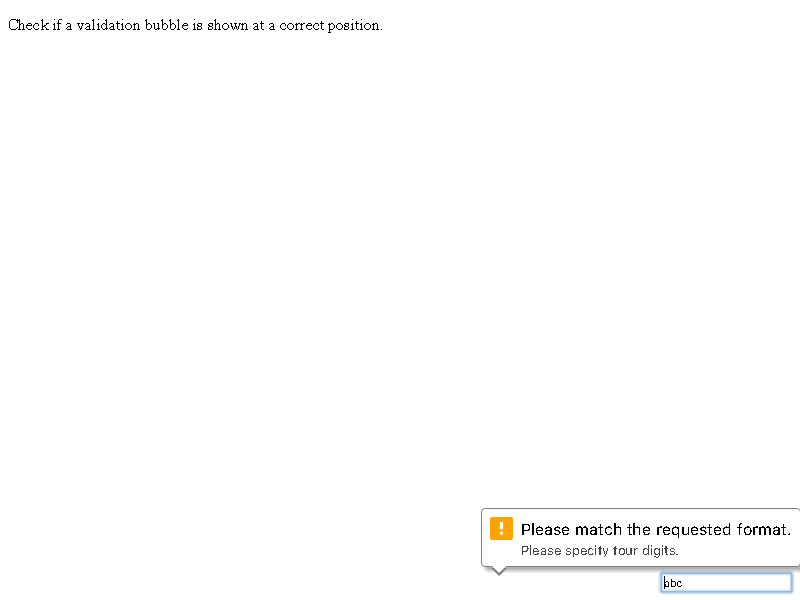
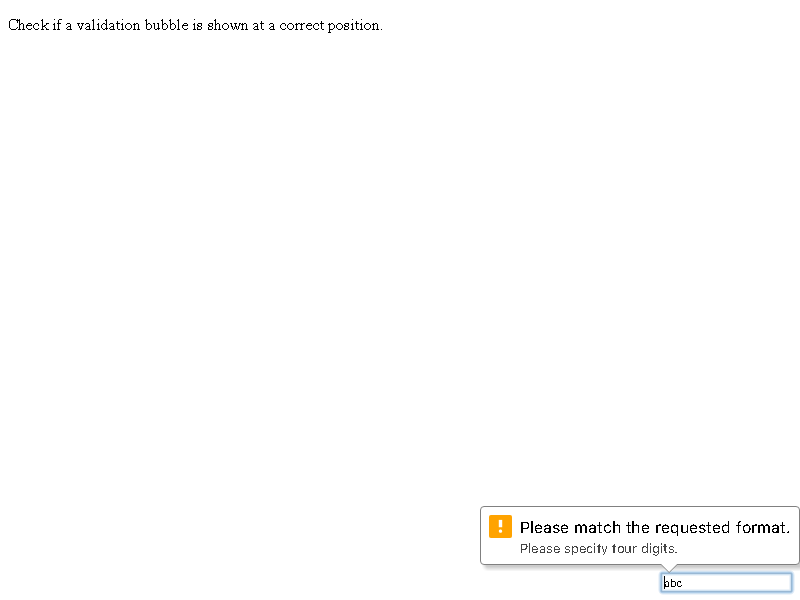
ValidationBubbleInRenderer: Adjust bubble arrow position.
This CL includes RTL support.

* If the UI locale is RTL, flip the bubble layout.
 - The default arrow position is on the right side.
 - The icon is on the right side.

* If the default position of the bubble arrow doesn't point at the anchor
  element rectangle, move the arrow position.

Implementation:
- Set <body dir=> for the UI locale.

- Found that it's difficult to adjust arrow position in RTL +
  position:relative. Switch inner arrow's position to 'absolute', and add spacer
  elements to secure height.

- Fix the icon margin in RTL.

- Drop layout tree dump from tests.

Bug: 739091
Commit-Queue: Kent Tamura <tkent@chromium.org>
Cr-Original-Commit-Position: refs/heads/master@{#485002}
Cr-Mirrored-From: https://chromium.googlesource.com/chromium/src
Cr-Mirrored-Commit: 91f7d6cc738e768e5d64f7d49b53002df0a072a4

Changed region(s): [[0.5938, 0.84, 1.0, 0.96]]

diff --git a/WebKit/Source/core/html/forms/resources/validation_bubble.css b/WebKit/Source/core/html/forms/resources/validation_bubble.css
@@ -29,13 +29,18 @@
   padding: 8px;
 }
 
+#spacer-top {
+  display: block;
+  height: var(--arrow-size);
+}
+
 #outer-arrow-top {
   border-color: transparent transparent var(--bubble-border-color) transparent;
   border-style: solid;
   border-width: 0px var(--arrow-size) var(--arrow-size) var(--arrow-size);
   display: block;
   left: 10px;
-  margin-top: -2px;
+  margin-top: 0px;
   position: absolute;
   width: 0px;
 }
@@ -46,17 +51,22 @@
   border-width: 0px var(--arrow-size) var(--arrow-size) var(--arrow-size);
   display: block;
   left: 10px;
-  margin-bottom: -2px;
-  position: relative;
+  margin-top: 1px;
+  position: absolute;
   width: 0px;
 }
 
-.bottom-arrow #outer-arrow-top, .bottom-arrow #inner-arrow-top {
+.bottom-arrow #outer-arrow-top, .bottom-arrow #inner-arrow-top, .bottom-arrow #spacer-top {
   display: none;
 }
 
-#outer-arrow-bottom, #inner-arrow-bottom {
+#outer-arrow-bottom, #inner-arrow-bottom, #spacer-bottom {
   display: none;
+}
+
+.bottom-arrow #spacer-bottom {
+  display: block;
+  height: var(--arrow-size);
 }
 
 .bottom-arrow #outer-arrow-bottom {
@@ -65,7 +75,7 @@
   border-width: var(--arrow-size) var(--arrow-size) 0px var(--arrow-size);
   display: block;
   left: 10px;
-  margin-top: 1px;
+  margin-top: 0px;
   position: absolute;
   width: 0px;
 }
@@ -76,15 +86,15 @@
   border-width: var(--arrow-size) var(--arrow-size) 0px var(--arrow-size);
   display: block;
   left: 10px;
-  margin-top: -2px;
-  position: relative;
+  margin-top: -1px;
+  position: absolute;
   width: 0px;
 }
 
 #icon {
   grid-row: 1 / 3;
   grid-column: 1;
-  margin-right: 8px;
+  -webkit-margin-end: 8px;
 }
 
 #main-message {

diff --git a/WebKit/LayoutTests/fast/forms/validation-bubble-appearance-rtl-ui.html b/WebKit/LayoutTests/fast/forms/validation-bubble-appearance-rtl-ui.html
@@ -1,0 +1,14 @@
+<!DOCTYPE html>
+<body>
+<p>Check if a validation bubble is shown at a correct position in RTL UI.</p>
+<input pattern="\d{4}" title="Please specify four digits." value="abc" style="margin-left: 30%;">
+<script>
+if (window.testRunner) {
+  // Layout tree dump doesn't matter.
+  testRunner.dumpAsTextWithPixelResults();
+}
+
+internals.setUserPreferredLanguages(['ar']);
+document.querySelector('input').reportValidity();
+</script>
+<body>

diff --git a/WebKit/LayoutTests/fast/forms/validation-bubble-appearance-edge.html b/WebKit/LayoutTests/fast/forms/validation-bubble-appearance-edge.html
@@ -3,6 +3,11 @@
 <p>Check if a validation bubble is shown at a correct position.</p>
 <input pattern="\d{4}" title="Please specify four digits." value="abc" style="position:absolute; right:8px; bottom: 8px;">
 <script>
+if (window.testRunner) {
+  // Layout tree dump doesn't matter.
+  testRunner.dumpAsTextWithPixelResults();
+}
+
 document.querySelector('input').reportValidity();
 </script>
 <body>

diff --git a/WebKit/LayoutTests/fast/forms/validation-bubble-appearance-iframe.html b/WebKit/LayoutTests/fast/forms/validation-bubble-appearance-iframe.html
@@ -2,4 +2,10 @@
 <body>
 <p>Check if a validation bubble is shown over IFRAME boundary.</p>
 <iframe src="validation-bubble-appearance-edge.html"></iframe>
-<body>
+<script>
+if (window.testRunner) {
+  // Layout tree dump doesn't matter.
+  testRunner.dumpAsTextWithPixelResults();
+}
+</script>
+</body>

diff --git a/WebKit/Source/core/page/ValidationMessageOverlayDelegate.cpp b/WebKit/Source/core/page/ValidationMessageOverlayDelegate.cpp
@@ -12,6 +12,7 @@
 #include "core/page/PagePopupClient.h"
 #include "platform/LayoutTestSupport.h"
 #include "platform/graphics/paint/CullRect.h"
+#include "platform/text/PlatformLocale.h"
 
 namespace blink {
 
@@ -129,7 +130,7 @@ void ValidationMessageOverlayDelegate::EnsurePage(const PageOverlay& overlay,
                        SubstituteData(data, "text/html", "UTF-8", KURL(),
                                       kForceSynchronousLoad)));
 
-  Element& container = BubbleContainer();
+  Element& container = GetElementById("container");
   if (LayoutTestSupport::IsRunningLayoutTest())
     container.SetInlineStyleProperty(CSSPropertyTransition, "none");
   // Get the size to decide position later.
@@ -137,8 +138,8 @@ void ValidationMessageOverlayDelegate::EnsurePage(const PageOverlay& overlay,
   bubble_size_ = container.VisibleBoundsInVisualViewport().Size();
   // Add one because the content sometimes exceeds the exact width due to
   // rounding errors.
-  container.SetInlineStyleProperty(CSSPropertyMinWidth,
-                                   bubble_size_.Width() + 1,
+  bubble_size_.Expand(1, 0);
+  container.SetInlineStyleProperty(CSSPropertyMinWidth, bubble_size_.Width(),
                                    CSSPrimitiveValue::UnitType::kPixels);
 }
 
@@ -146,11 +147,15 @@ void ValidationMessageOverlayDelegate::WriteDocument(SharedBuffer* data) {
   DCHECK(data);
   PagePopupClient::AddString("<!DOCTYPE html><html><head><style>", data);
   data->Append(Platform::Current()->GetDataResource("validation_bubble.css"));
+  PagePopupClient::AddString("</style></head>", data);
   PagePopupClient::AddString(
-      "</style></head><body>"
+      Locale::DefaultLocale().IsRTL() ? "<body dir=rtl>" : "<body dir=ltr>",
+      data);
+  PagePopupClient::AddString(
       "<div id=container>"
       "<div id=outer-arrow-top></div>"
       "<div id=inner-arrow-top></div>"
+      "<div id=spacer-top></div>"
       "<main id=bubble-body>",
       data);
   data->Append(Platform::Current()->GetDataResource("input_alert.svg"));
@@ -168,16 +173,18 @@ void ValidationMessageOverlayDelegate::WriteDocument(SharedBuffer* data) {
       "</div></main>"
       "<div id=outer-arrow-bottom></div>"
       "<div id=inner-arrow-bottom></div>"
+      "<div id=spacer-bottom></div>"
       "</div></body></html>\n",
       data);
 }
 
-Element& ValidationMessageOverlayDelegate::BubbleContainer() const {
-  Element* container = ToLocalFrame(page_->MainFrame())
-                           ->GetDocument()
-                           ->getElementById("container");
-  DCHECK(container) << "Failed to load the document?";
-  return *container;
+Element& ValidationMessageOverlayDelegate::GetElementById(
+    const AtomicString& id) const {
+  Element* element =
+      ToLocalFrame(page_->MainFrame())->GetDocument()->getElementById(id);
+  DCHECK(element) << "No element with id=" << id
+                  << ". Failed to load the document?";
+  return *element;
 }
 
 void ValidationMessageOverlayDelegate::AdjustBubblePosition(
@@ -196,7 +203,7 @@ void ValidationMessageOverlayDelegate::AdjustBubblePosition(
   else if (bubble_x + bubble_size_.Width() > view_size.Width())
     bubble_x = view_size.Width() - bubble_size_.Width();
 
-  Element& container = BubbleContainer();
+  Element& container = GetElementById("container");
   container.SetInlineStyleProperty(CSSPropertyLeft, bubble_x,
                                    CSSPrimitiveValue::UnitType::kPixels);
   container.SetInlineStyleProperty(CSSPropertyTop, bubble_y,
@@ -208,7 +215,54 @@ void ValidationMessageOverlayDelegate::AdjustBubblePosition(
   else
     container.removeAttribute(HTMLNames::classAttr);
 
-  // TODO(tkent): Adjust arrow position.
+  // Should match to --arrow-size in validation_bubble.css.
+  const int kArrowSize = 8;
+  const int kArrowMargin = 10;
+  const int kMinArrowAnchorX = kArrowSize + kArrowMargin;
+  double max_arrow_anchor_x =
+      bubble_size_.Width() - (kArrowSize + kArrowMargin);
+  double arrow_anchor_x;
+  const int kOffsetToAnchorRect = 8;
+  double anchor_rect_center = anchor_rect.X() + anchor_rect.Width() / 2;
+  if (!Locale::DefaultLocale().IsRTL()) {
+    double anchor_rect_left = anchor_rect.X() + kOffsetToAnchorRect;
+    if (anchor_rect_left > anchor_rect_center)
+      anchor_rect_left = anchor_rect_center;
+
+    arrow_anchor_x = kMinArrowAnchorX;
+    if (bubble_x + arrow_anchor_x < anchor_rect_left) {
+      arrow_anchor_x = anchor_rect_left - bubble_x;
+      if (arrow_anchor_x > max_arrow_anchor_x)
+        arrow_anchor_x = max_arrow_anchor_x;
+    }
+  } else {
+    double anchor_rect_right = anchor_rect.MaxX() - kOffsetToAnchorRect;
+    if (anchor_rect_right < anchor_rect_center)
+      anchor_rect_right = anchor_rect_center;
+
+    arrow_anchor_x = max_arrow_anchor_x;
+    if (bubble_x + arrow_anchor_x > anchor_rect_right) {
+      arrow_anchor_x = anchor_rect_right - bubble_x;
+      if (arrow_anchor_x < kMinArrowAnchorX)
+        arrow_anchor_x = kMinArrowAnchorX;
+    }
+  }
+  double arrow_x = arrow_anchor_x - kArrowSize;
+  if (show_bottom_arrow) {
+    GetElementById("outer-arrow-bottom")
+        .SetInlineStyleProperty(CSSPropertyLeft, arrow_x,
+                                CSSPrimitiveValue::UnitType::kPixels);
+    GetElementById("inner-arrow-bottom")
+        .SetInlineStyleProperty(CSSPropertyLeft, arrow_x,
+                                CSSPrimitiveValue::UnitType::kPixels);
+  } else {
+    GetElementById("outer-arrow-top")
+        .SetInlineStyleProperty(CSSPropertyLeft, arrow_x,
+                                CSSPrimitiveValue::UnitType::kPixels);
+    GetElementById("inner-arrow-top")
+        .SetInlineStyleProperty(CSSPropertyLeft, arrow_x,
+                                CSSPrimitiveValue::UnitType::kPixels);
+  }
 }
 
 }  // namespace blink

diff --git a/WebKit/Source/core/page/ValidationMessageOverlayDelegate.h b/WebKit/Source/core/page/ValidationMessageOverlayDelegate.h
@@ -49,7 +49,7 @@ class ValidationMessageOverlayDelegate : public PageOverlay::Delegate {
   void UpdateFrameViewState(const PageOverlay&, const IntSize& view_size);
   void EnsurePage(const PageOverlay&, const IntSize& view_size);
   void WriteDocument(SharedBuffer*);
-  Element& BubbleContainer() const;
+  Element& GetElementById(const AtomicString&) const;
   void AdjustBubblePosition(const IntSize& view_size);
 
   // An internal Page and a ChromeClient for it.
